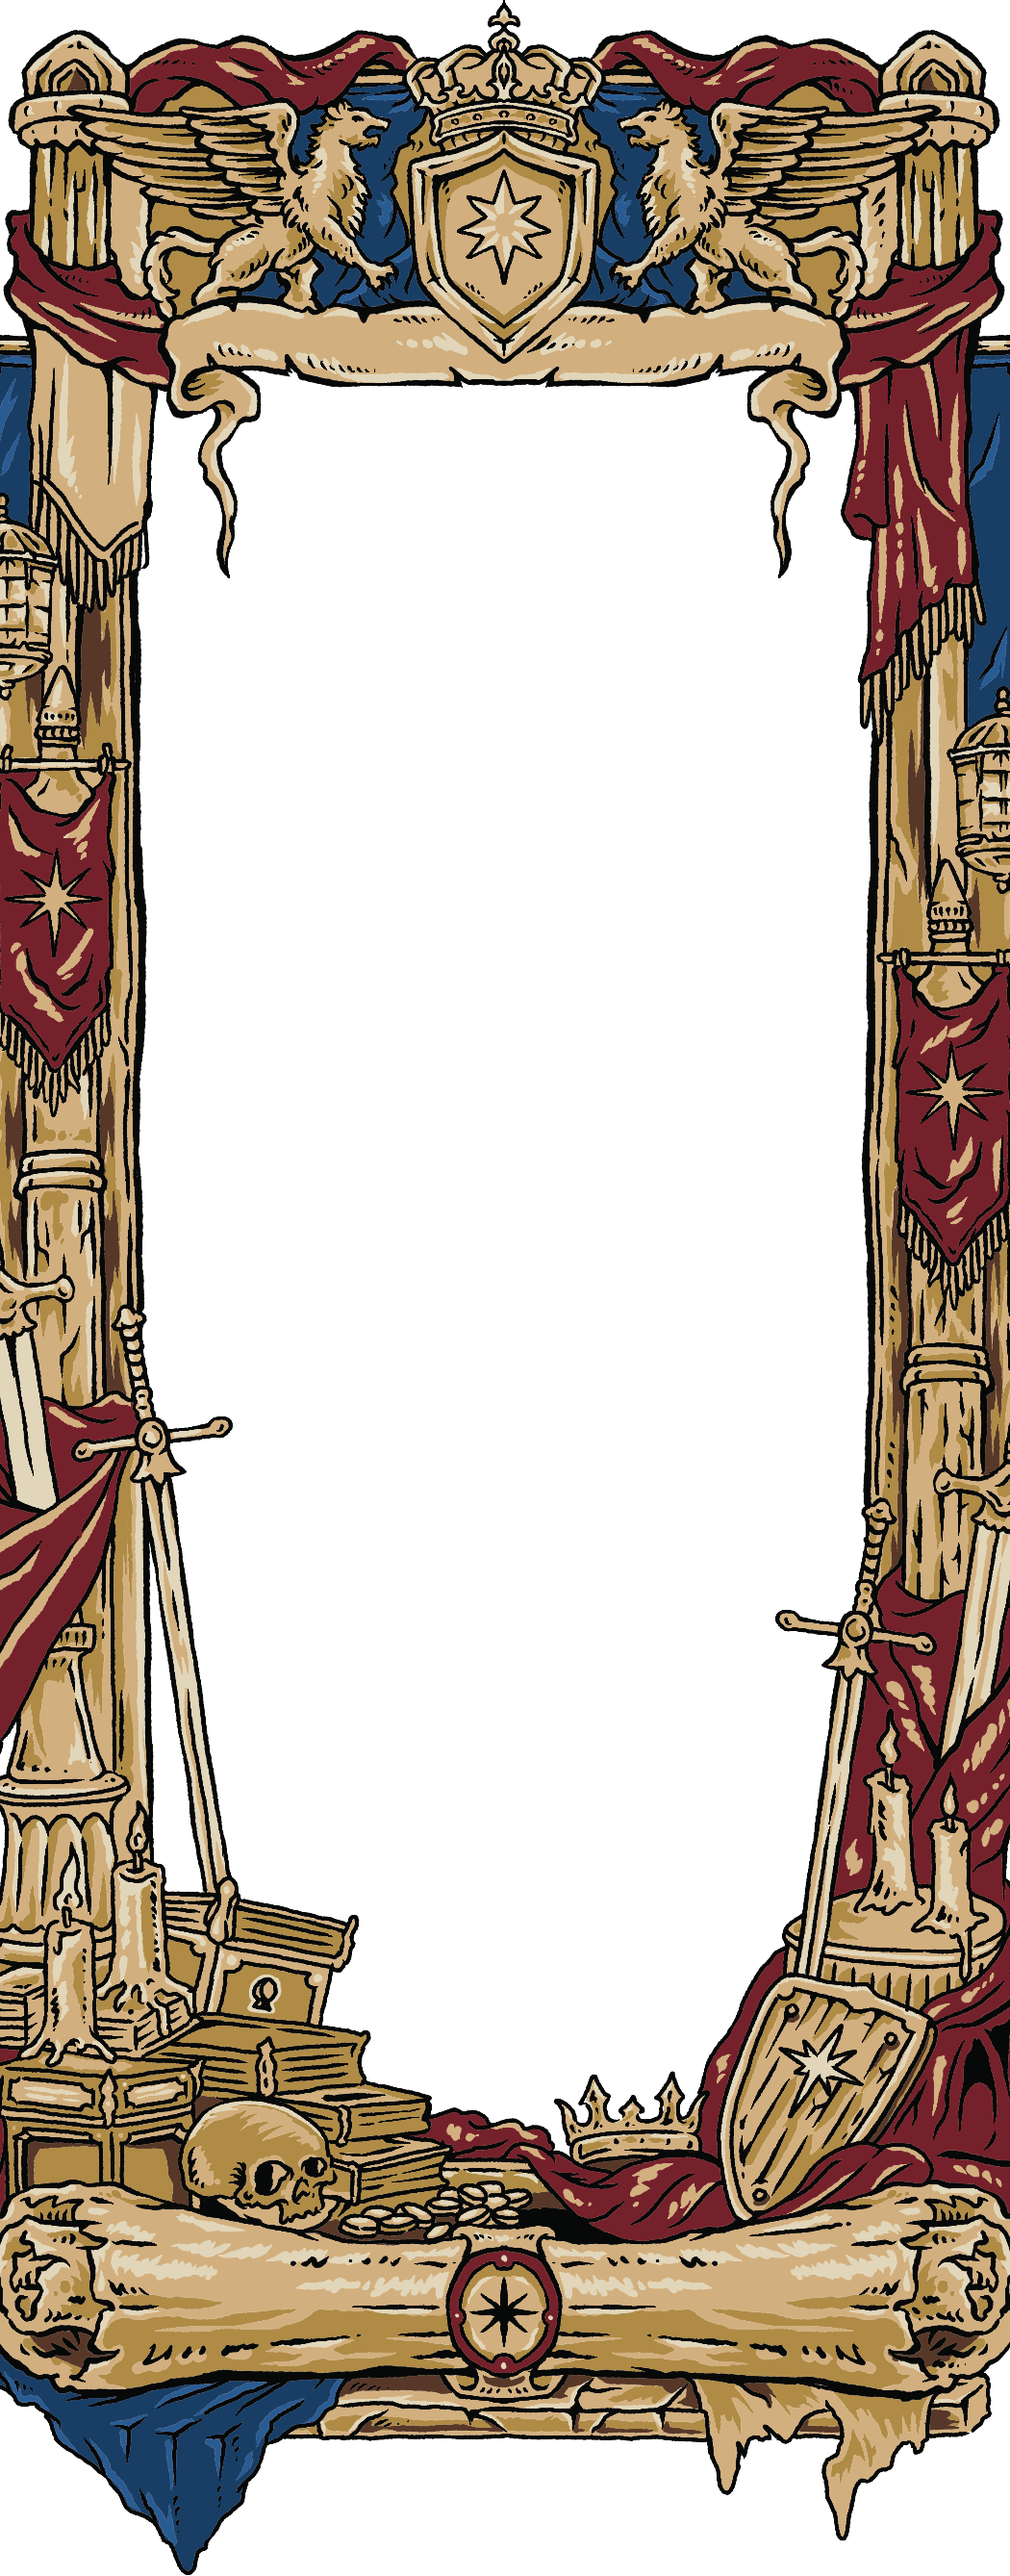
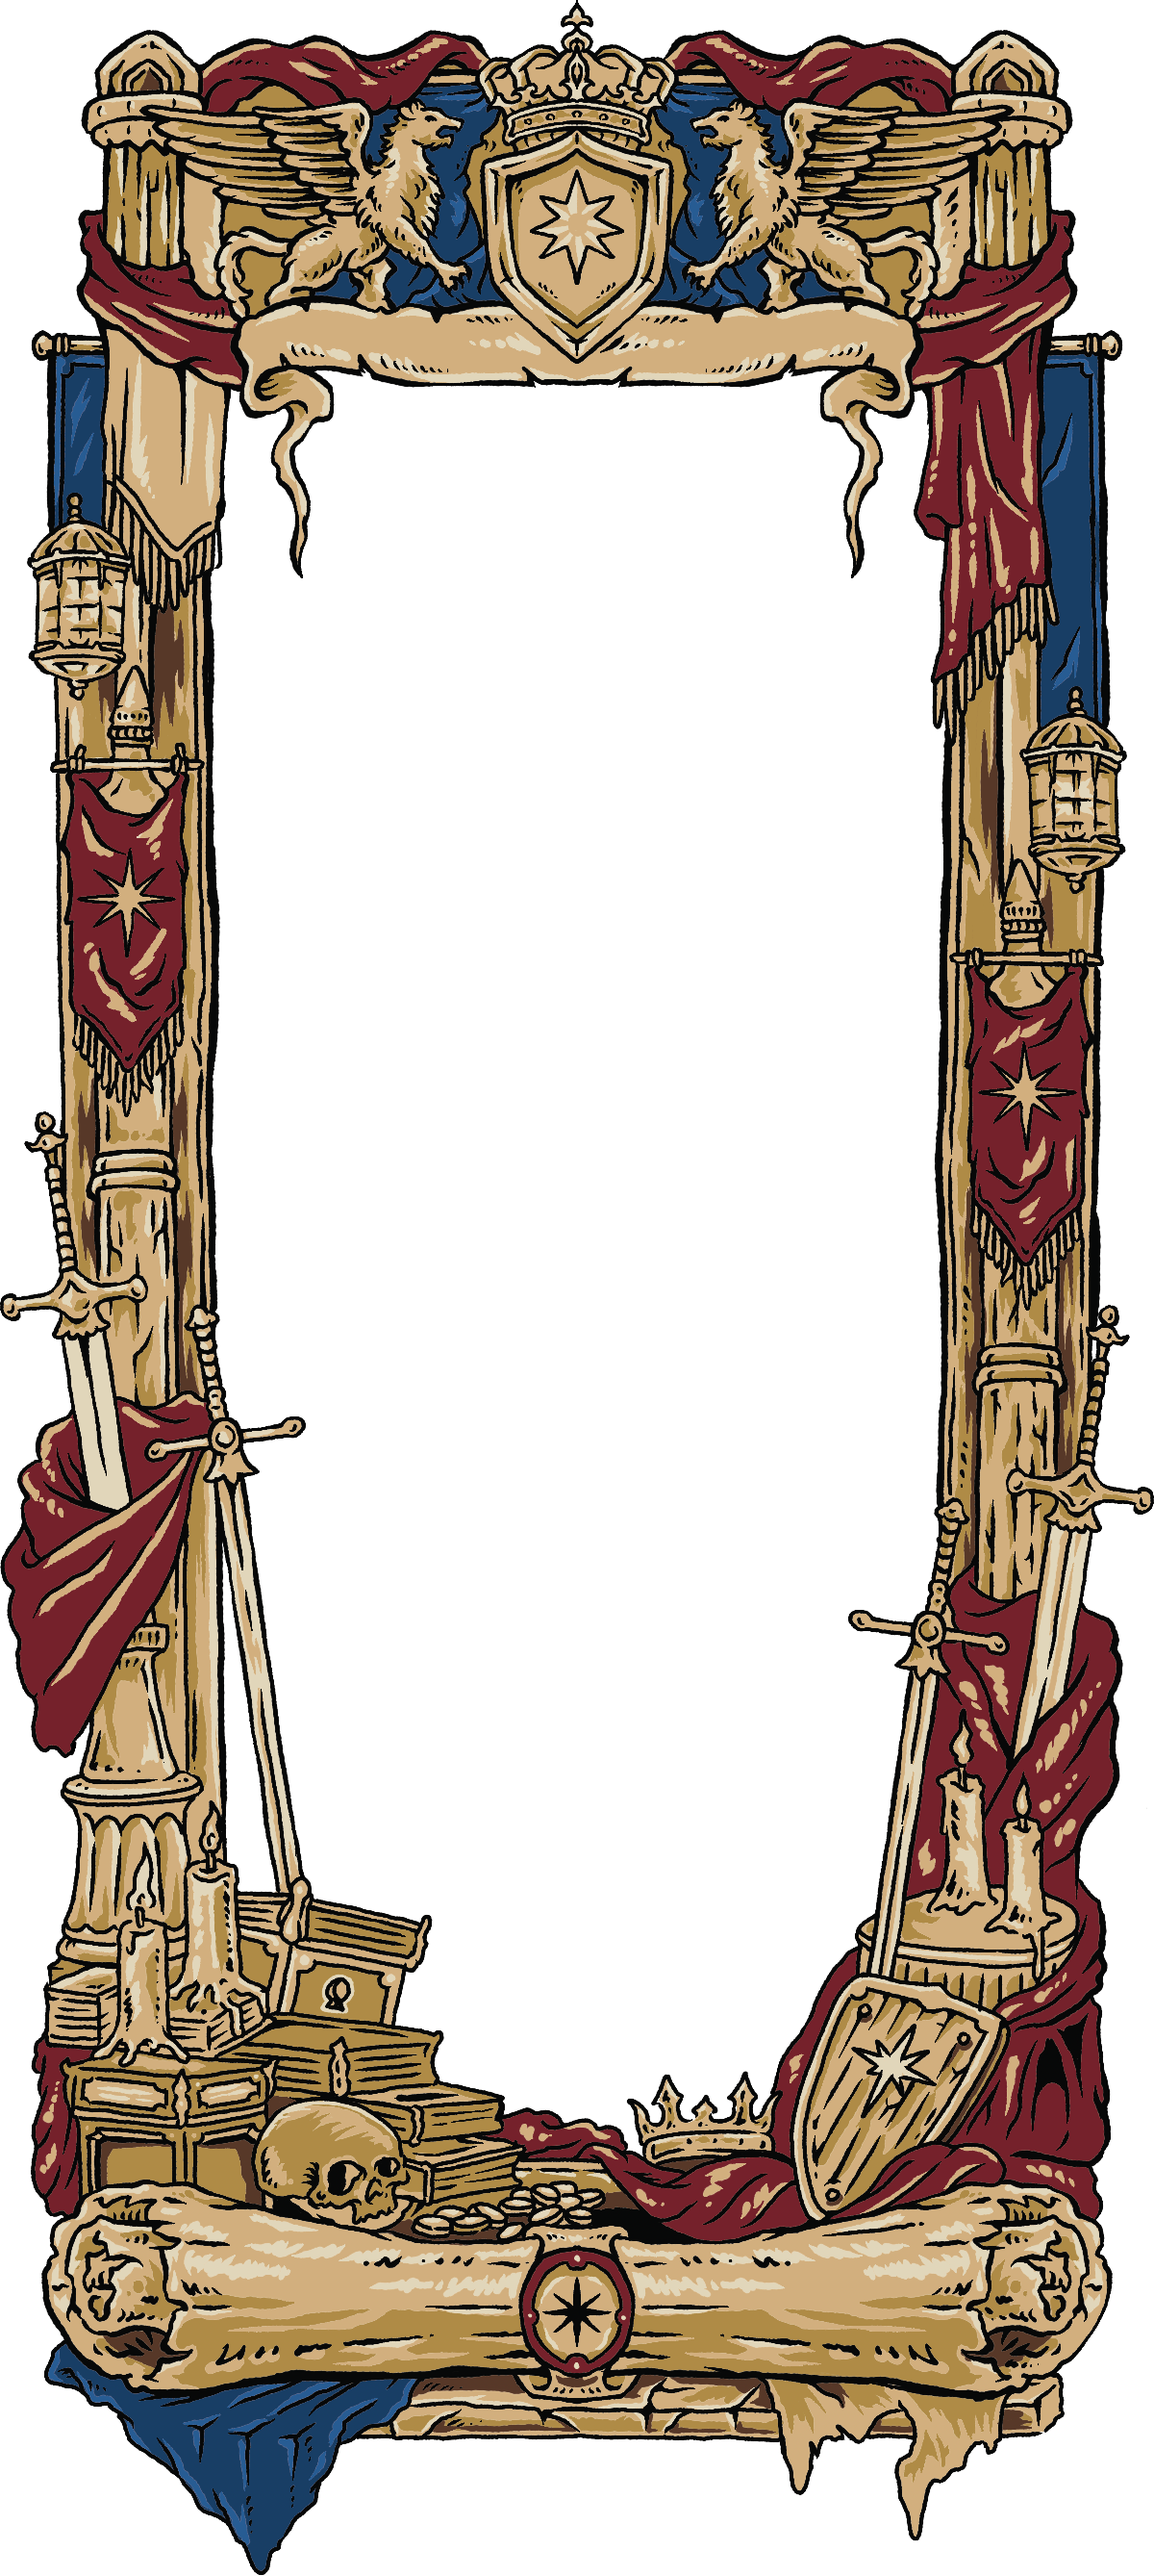
Hall: show full frame art, back button on top, your row only when below top
- Frame uses the full uncropped art; zones re-measured to fit it.
- Replace "Leave the Hall" with a back button pinned top-left.
- Your row shows apart (with ···) only when you rank below the top block;
  inside the top block you appear in the list only.

diff --git a/src/components/HallScreen.tsx b/src/components/HallScreen.tsx
@@ -9,10 +9,11 @@ import {
 import { scrollPalette } from "@/lib/quiz/scrolls";
 import { BoardRows } from "./QuizRanking";
 import { hallCopy, type HallKind } from "@/lib/quiz/halls";
+import { ArrowLeftIcon } from "./Icons";
 
 const FRAME_SRC = "/quiz-scrolls/hall-frame-v2.png";
 /** Native size of the frame art. */
-const FRAME_W = 1050;
+const FRAME_W = 1200;
 const FRAME_H = 2677;
 
 /*
@@ -21,10 +22,9 @@ const FRAME_H = 2677;
  * narrow the bottom, so the wide band between the pillars holds the rows.
  * Your own row sits apart, between the sword hilts, so it is always visible.
  */
-const TITLE_ZONE = { left: "24%", right: "24%", top: "16.5%", bottom: "77.8%" };
-const ROWS_ZONE = { left: "15%", right: "15%", top: "23.5%", bottom: "46.5%" };
-const YOU_ZONE = { left: "20%", right: "17%", top: "56%", bottom: "37.6%" };
-const FOOT_ZONE = { left: "25%", right: "22%", top: "64.8%", bottom: "28.4%" };
+const TITLE_ZONE = { left: "27.5%", right: "27.5%", top: "16.3%", bottom: "77.8%" };
+const ROWS_ZONE = { left: "19.5%", right: "19.5%", top: "23.5%", bottom: "46.5%" };
+const YOU_ZONE = { left: "23.5%", right: "20%", top: "56%", bottom: "37.6%" };
 
 interface HallScreenProps {
   open: boolean;
@@ -73,7 +73,19 @@ export default function HallScreen({
   const loading = kind !== "daily" && loaded?.key !== boardKey;
   const board = kind === "daily" ? dailyBoard : loading ? null : loaded?.board ?? null;
   const rows = board?.rows ?? [];
-  const you = rows.find((row) => row.isYou);
+  // Rows come as the unbroken top block, then a window around you when you
+  // rank below it. Inside the block you are already in the list; below it,
+  // your row moves to its own spot under the list.
+  let topCount = rows.length;
+  for (let i = 1; i < rows.length; i++) {
+    if (rows[i].rank > rows[i - 1].rank + 1) {
+      topCount = i;
+      break;
+    }
+  }
+  const youIndex = rows.findIndex((row) => row.isYou);
+  const youApart = youIndex >= topCount ? rows[youIndex] : null;
+  const listRows = youApart ? rows.slice(0, topCount) : rows;
 
   useEffect(() => {
     if (!open) return;
@@ -92,105 +104,103 @@ export default function HallScreen({
           animate={{ opacity: 1 }}
           exit={{ opacity: 0 }}
           transition={{ duration: 0.2, ease: "easeOut" }}
-          className="absolute inset-0 z-10 overflow-y-auto overscroll-contain bg-[#120c08] pb-[env(safe-area-inset-bottom)] pt-[env(safe-area-inset-top)] [scrollbar-width:none] [&::-webkit-scrollbar]:hidden"
+          className="absolute inset-0 z-10 bg-[#120c08]"
           role="dialog"
           aria-label={copy.name}
         >
-          {/* Full width, so the frame runs taller than the screen and scrolls. */}
-          <div
-            className="@container relative mx-auto w-full max-w-[520px]"
-            style={{ aspectRatio: `${FRAME_W} / ${FRAME_H}` }}
+          {/* Outside the scroller so it stays put while the frame scrolls. */}
+          <button
+            type="button"
+            onClick={onClose}
+            aria-label="Back"
+            className="absolute left-4 top-[calc(env(safe-area-inset-top)+0.75rem)] z-10 flex h-9 w-9 items-center justify-center rounded-full border border-white/20 bg-black/55 text-white backdrop-blur-md transition-colors hover:bg-black/70 after:absolute after:-inset-2 after:content-['']"
           >
-            <div
-              aria-hidden
-              className="absolute inset-[16%_14%_11%] rounded-[30%] bg-[radial-gradient(ellipse_at_50%_40%,#2e2014_0%,#120c08_75%)]"
-            />
-            {/* eslint-disable-next-line @next/next/no-img-element */}
-            <img
-              src={FRAME_SRC}
-              alt=""
-              draggable={false}
-              className="pointer-events-none absolute inset-0 h-full w-full select-none"
-            />
+            <ArrowLeftIcon className="h-4 w-4" />
+          </button>
 
+          <div className="h-full overflow-y-auto overscroll-contain pb-[env(safe-area-inset-bottom)] pt-[env(safe-area-inset-top)] [scrollbar-width:none] [&::-webkit-scrollbar]:hidden">
+            {/* Full width, so the frame runs taller than the screen and scrolls. */}
             <div
-              className="absolute flex flex-col items-center justify-center text-center"
-              style={TITLE_ZONE}
+              className="@container relative mx-auto w-full max-w-[520px]"
+              style={{ aspectRatio: `${FRAME_W} / ${FRAME_H}` }}
             >
-              <h2 className={`font-serif text-[4.6cqw] leading-tight ${heading}`}>
-                {copy.name}
-              </h2>
-              <p className={`text-[2.9cqw] leading-snug ${label}`}>{copy.subtitle}</p>
-            </div>
+              <div
+                aria-hidden
+                className="absolute inset-[16%_14%_11%] rounded-[30%] bg-[radial-gradient(ellipse_at_50%_40%,#2e2014_0%,#120c08_75%)]"
+              />
+              {/* eslint-disable-next-line @next/next/no-img-element */}
+              <img
+                src={FRAME_SRC}
+                alt=""
+                draggable={false}
+                className="pointer-events-none absolute inset-0 h-full w-full select-none"
+              />
 
-            <div className="absolute flex flex-col" style={ROWS_ZONE}>
-              {kind === "discover" && (
-                <div className="mb-1.5 flex shrink-0 gap-0.5 rounded-full border border-white/20 bg-black/45 p-0.5">
-                  {QUIZ_DIFFICULTIES.map((spec) => (
-                    <button
-                      key={spec.id}
-                      type="button"
-                      onClick={() => setDifficulty(spec.id)}
-                      className={`flex-1 rounded-full py-1 text-[2.7cqw] font-semibold ${
-                        difficulty === spec.id
-                          ? "bg-[#f6ead0] text-[#2a1c0c]"
-                          : "text-[#f0e2bc]"
-                      }`}
-                    >
-                      {spec.label}
-                    </button>
-                  ))}
+              <div
+                className="absolute flex flex-col items-center justify-center text-center"
+                style={TITLE_ZONE}
+              >
+                <h2 className={`font-serif text-[4.2cqw] leading-tight ${heading}`}>
+                  {copy.name}
+                </h2>
+                <p className={`text-[2.6cqw] leading-snug ${label}`}>{copy.subtitle}</p>
+              </div>
+
+              <div className="absolute flex flex-col" style={ROWS_ZONE}>
+                {kind === "discover" && (
+                  <div className="mb-1.5 flex shrink-0 gap-0.5 rounded-full border border-white/20 bg-black/45 p-0.5">
+                    {QUIZ_DIFFICULTIES.map((spec) => (
+                      <button
+                        key={spec.id}
+                        type="button"
+                        onClick={() => setDifficulty(spec.id)}
+                        className={`flex-1 rounded-full py-1 text-[2.7cqw] font-semibold ${
+                          difficulty === spec.id
+                            ? "bg-[#f6ead0] text-[#2a1c0c]"
+                            : "text-[#f0e2bc]"
+                        }`}
+                      >
+                        {spec.label}
+                      </button>
+                    ))}
+                  </div>
+                )}
+                <div className="relative min-h-0 flex-1 overflow-y-auto pb-2 [scrollbar-width:none] [&::-webkit-scrollbar]:hidden">
+                  {loading ? (
+                    <p className={`mt-6 text-center text-sm ${muted}`}>Opening the Hall…</p>
+                  ) : rows.length > 0 ? (
+                    <BoardRows rows={listRows} ink="light" levelId={levelId} dense />
+                  ) : (
+                    <p className={`mt-6 rounded-xl border px-3 py-3 text-center text-sm ${box} ${body}`}>
+                      {copy.empty}
+                    </p>
+                  )}
                 </div>
-              )}
-              <div className="relative min-h-0 flex-1 overflow-y-auto pb-2 [scrollbar-width:none] [&::-webkit-scrollbar]:hidden">
-                {loading ? (
-                  <p className={`mt-6 text-center text-sm ${muted}`}>Opening the Hall…</p>
-                ) : rows.length > 0 ? (
-                  <BoardRows rows={rows} ink="light" levelId={levelId} dense />
-                ) : (
-                  <p className={`mt-6 rounded-xl border px-3 py-3 text-center text-sm ${box} ${body}`}>
-                    {copy.empty}
+              </div>
+
+              <div className="absolute flex flex-col justify-end" style={YOU_ZONE}>
+                {youApart ? (
+                  <>
+                    <p className={`pb-0.5 text-center text-xs leading-none tracking-widest ${muted}`}>···</p>
+                    <BoardRows rows={[youApart]} ink="light" levelId={levelId} dense />
+                  </>
+                ) : youIndex >= 0 ? null : board?.rank != null ? (
+                  <p className={`text-center font-serif text-[4.2cqw] leading-tight ${heading}`}>
+                    Your place #{board.rank}
+                    {board.points != null && (
+                      <span className={`block text-[3cqw] tabular-nums ${muted}`}>
+                        {board.points.toLocaleString()} {copy.unit}
+                      </span>
+                    )}
+                  </p>
+                ) : loading ? null : (
+                  <p className={`text-center text-[3cqw] ${muted}`}>
+                    {kind === "discover"
+                      ? "Finish a trial at this level to take your place."
+                      : "Finish today’s assessment to take your place."}
                   </p>
                 )}
               </div>
-            </div>
-
-            <div className="absolute flex flex-col justify-end" style={YOU_ZONE}>
-              {you ? (
-                <>
-                  <p
-                    className={`mb-1 text-center text-[2.5cqw] font-semibold uppercase tracking-[0.18em] ${label}`}
-                  >
-                    Your place
-                  </p>
-                  <BoardRows rows={[you]} ink="light" levelId={levelId} dense />
-                </>
-              ) : board?.rank != null ? (
-                <p className={`text-center font-serif text-[4.6cqw] leading-tight ${heading}`}>
-                  Your place #{board.rank}
-                  {board.points != null && (
-                    <span className={`block text-[3cqw] tabular-nums ${muted}`}>
-                      {board.points.toLocaleString()} {copy.unit}
-                    </span>
-                  )}
-                </p>
-              ) : loading ? null : (
-                <p className={`text-center text-[3cqw] ${muted}`}>
-                  {kind === "discover"
-                    ? "Finish a trial at this level to take your place."
-                    : "Finish today’s assessment to take your place."}
-                </p>
-              )}
-            </div>
-
-            <div className="absolute flex flex-col justify-center" style={FOOT_ZONE}>
-              <button
-                type="button"
-                onClick={onClose}
-                className="w-full rounded-full border border-amber-200/30 bg-[#f6ead0] py-2 text-[3.4cqw] font-semibold text-[#2a1c0c] shadow-[0_6px_16px_rgba(0,0,0,0.4)] active:scale-[0.98]"
-              >
-                Leave the Hall
-              </button>
             </div>
           </div>
         </motion.div>
